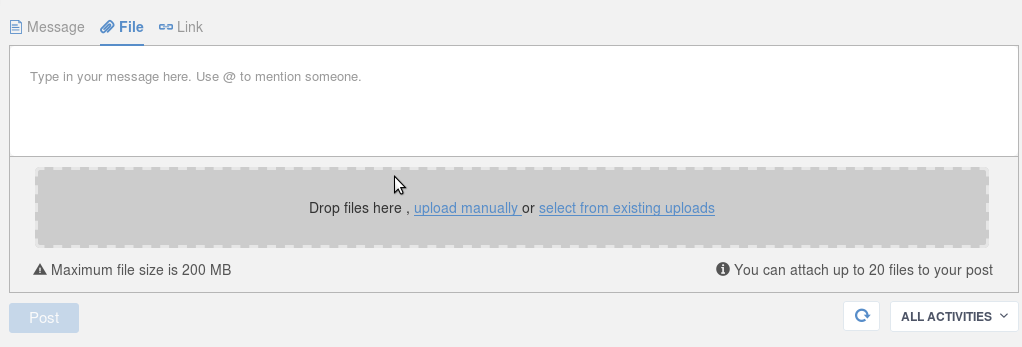
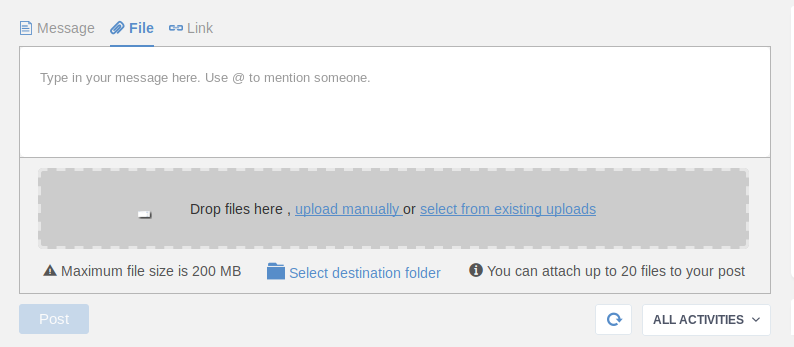
DOC-4318: Document the new feature of Allowing users to classify upladed files in AS

diff --git a/docs/Manage-Documents.rst b/docs/Manage-Documents.rst
@@ -1902,6 +1902,9 @@ eXo Platform.
 
    When droping the file, the area dedicated to the files upload is
    greyed.
+   While the file is being attached, you can click on the |folder| icon
+   to choose a destination folder where to store the file. More details in 
+   the :ref:`Activity stream file's classification section <_AS_Files_Classification>`.
 
 -  upload manually: Allows you to select documents from your hard disc.
 
@@ -1910,6 +1913,12 @@ eXo Platform.
    Cliking on upload manually opens a window showing a drive from your
    hard disk (it opens files drive for mobile devices) and allows you to
    select one or many files.
+   Same as for dropped files, you can select a destination folder for each file
+   by clicking on |folder2| icon:
+   
+   |destination|
+   
+   More details in the :ref:`Activity stream file's classification <_AS_Files_Classification>` section.
 
 -  select from existing uploads: Allows you to select documents from
    your eXo Platform drives.
@@ -2076,6 +2085,50 @@ Multiple file sharing conditions
    file is already attached.
 
    |image167|
+   
+.. _AS_Files_Classification:   
+
+Activity stream file's classification
+````````````````````````````````````````
+
+When sharing multiple files in the activity stream by uploading them from your hard disk
+either by dragging and dropping or uploading them manually, you can classify them and choose
+a destination folder of your choice to store them.
+
+For that purpose, you just need to click on ``Select destination folder`` link.
+
+|dest_folder|
+
+A popup of the documents drives appears allowing you to select a destination folder.
+
+.. note:: If you are uploading files in your activity stream, the select folder popup opens in 
+          **Personal Documents** drive.
+          If you are uploading files in a space's activity stream, the select folder popup opens in 
+          space's drive.
+                    
+After selecting the files to upload from your hard disk, you can define a destination folder for each of them
+by clicking on |folder_icon| in the file's line.
+
+ 
+|destination_file|
+
+After choosing a destination folder, the select folder button switch to display the drive selected with a cancale icon
+allowing to restore the default choices.
+
+|destination_selected|
+
+-  If the user cancels a destination folder for a file, the default destination will be the choice done for all files
+-  If the user cancels the selected destination folder for all files, files will be stored in the default folder i.e. 
+   ``Activity Stream Documents`` if no selected destination for them.
+
+.. note:: If you don't select a destination folder for each of the attached files, the destination chosen
+          in the first step will be the destination of all files.
+          If you also did not select a destination neither for all files neither for each file, attached files
+          will be stored in the default destination i.e.:
+            
+            -  ``Space drive/Activity Stream Documents`` if the post is in a space's activity stream
+            -  ``Personal Documents/Public/Activity Stream Documents`` if the post is in your activity stream.
+               
 
 .. _ActivityForDocChanges:
 
@@ -2879,3 +2932,10 @@ information.
 .. |edit| image:: images/ecms/edit.png
 .. |edit1| image:: images/ecms/edit.png
 .. |warning| image:: images/ecms/warning.png
+.. |folder| image:: images/ecms/folder_icon.png
+.. |folder2| image:: images/ecms/folder_icon.png
+.. |folder_icon| image:: images/ecms/folder_icon.png
+.. |destination| image:: images/ecms/destination_folder.png
+.. |dest_folder| image:: images/ecms/dest_folder_link.png
+.. |destination_file| image:: images/ecms/file_dest.png
+.. |destination_selected| image:: images/ecms/destination_selected.png

diff --git a/docs/GettingStarted.rst b/docs/GettingStarted.rst
@@ -1087,8 +1087,10 @@ file appears:
 
 |image70|
 
-Select the desired file or files. More details in :ref:`Share multiple documents in activity stream <MultiUpload>` 
-section.
+Select the desired file or files either from your hard disk or from existing uploads in the documents application. 
+
+.. note:: Uploaded files could be classified in different folders. 
+          More details in :ref:`Share multiple documents in activity stream <MultiUpload>` section.
 
 You can add a text message or not and then click on |image71| button to
 share the file(s) in the activity stream.
